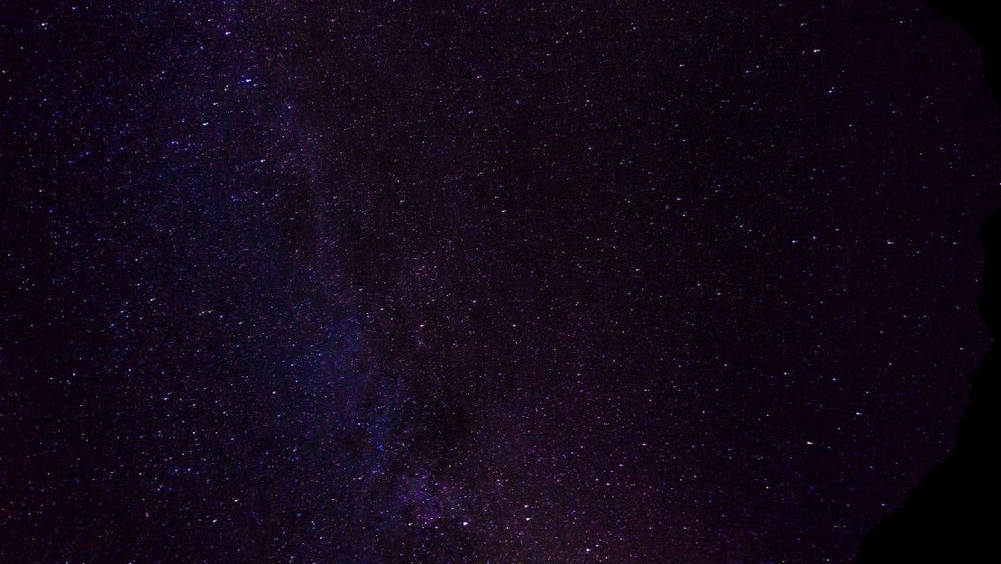
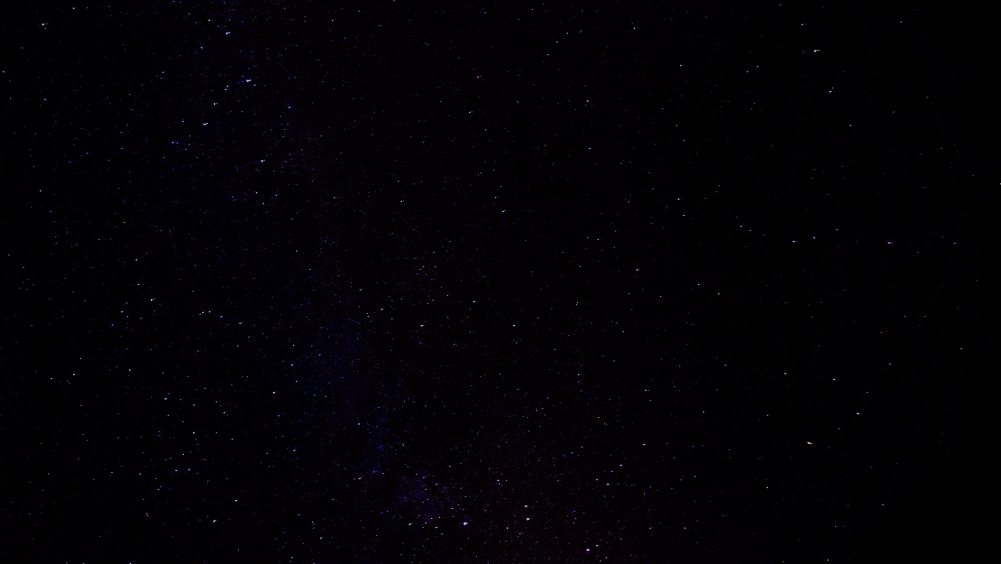
stashing

diff --git a/src/App.css b/src/App.css
@@ -37,15 +37,46 @@ body {
 
 /* WELCOME PAGE STYLING */
 
+@keyframes flickerAnimation {
+  0%   { opacity:1; }
+  50%  { opacity:0.2; }
+  100% { opacity:1; }
+}
+
+@keyframes fadeAnimation {
+  0%   { opacity:1; }
+  50%  { opacity:0.6; }
+  100% { opacity:1; }
+}
+
 .welcome-container-div {
+  position: absolute;
+  background-repeat: repeat;
   width: 100vw;
   height: 80vh;
   overflow: hidden;
 }
 
+.anim {
+  opacity:1;
+  animation: fadeAnimation 20s infinite;
+  background-image: url('./Images/star-background.png');
+}
+
+.flipped {
+  opacity:1;  
+  animation: flickerAnimation 2s infinite;
+  background-image: url('./Images/star-background-flipped.png');
+}
+
+.flipped-third{
+  opacity:1;
+  animation: flickerAnimation 5s infinite;
+  background-image: url('./Images/star-background-flipped-third.png');
+}
+
 .welcome-div {
-  background-image: url('./Images/planet-pic.jfif');
-  background-color: black;
+  background-image: url('./Images/planet-pic.png');
   background-position: center 40%;
   background-repeat: no-repeat;
   object-fit: cover;
@@ -55,6 +86,13 @@ body {
   justify-content: center;
   align-items: center;
   transition: 1s;
+}
+
+.twinkling-div {
+  width: 2000px;
+  height: 2000px;
+  background-color: red;
+  background:transparent url('http://www.script-tutorials.com/demos/360/images/twinkling.png') repeat;
 }
 
 .welcome-div:hover {
@@ -211,7 +249,8 @@ body {
   background-size: 650px;
   object-fit: cover;
   background-repeat: no-repeat;
-  background-position: top right;
+  background-position: 78% 150%;
+  background-attachment: fixed;
   width: 100%;
   height: fit-content;
   min-height: 400px;

diff --git a/src/components/Welcome.js b/src/components/Welcome.js
@@ -3,12 +3,21 @@ import React, { useEffect, useState } from 'react';
 const Welcome = () => {
 
     return (
-      <div className='welcome-container-div' >
-        <div className='welcome-div' >
-              <h1 className='welcome-title title'>Welcome</h1>
-              <span className='welcome-subtitle'>Discover the Solar System</span>
+      <>
+      <div className='welcome-container-div anim' >
+        <div className='welcome-container-div anim flipped' >
+          <div className='welcome-container-div anim flipped-third' >
+          </div>
         </div>
       </div>
+
+      <div className='welcome-container-div'>
+        <div className='welcome-div' >
+          <h1 className='welcome-title title'>Welcome</h1>
+          <span className='welcome-subtitle'>Discover the Solar System</span>
+        </div>
+      </div>
+      </>
     );
 }
 
